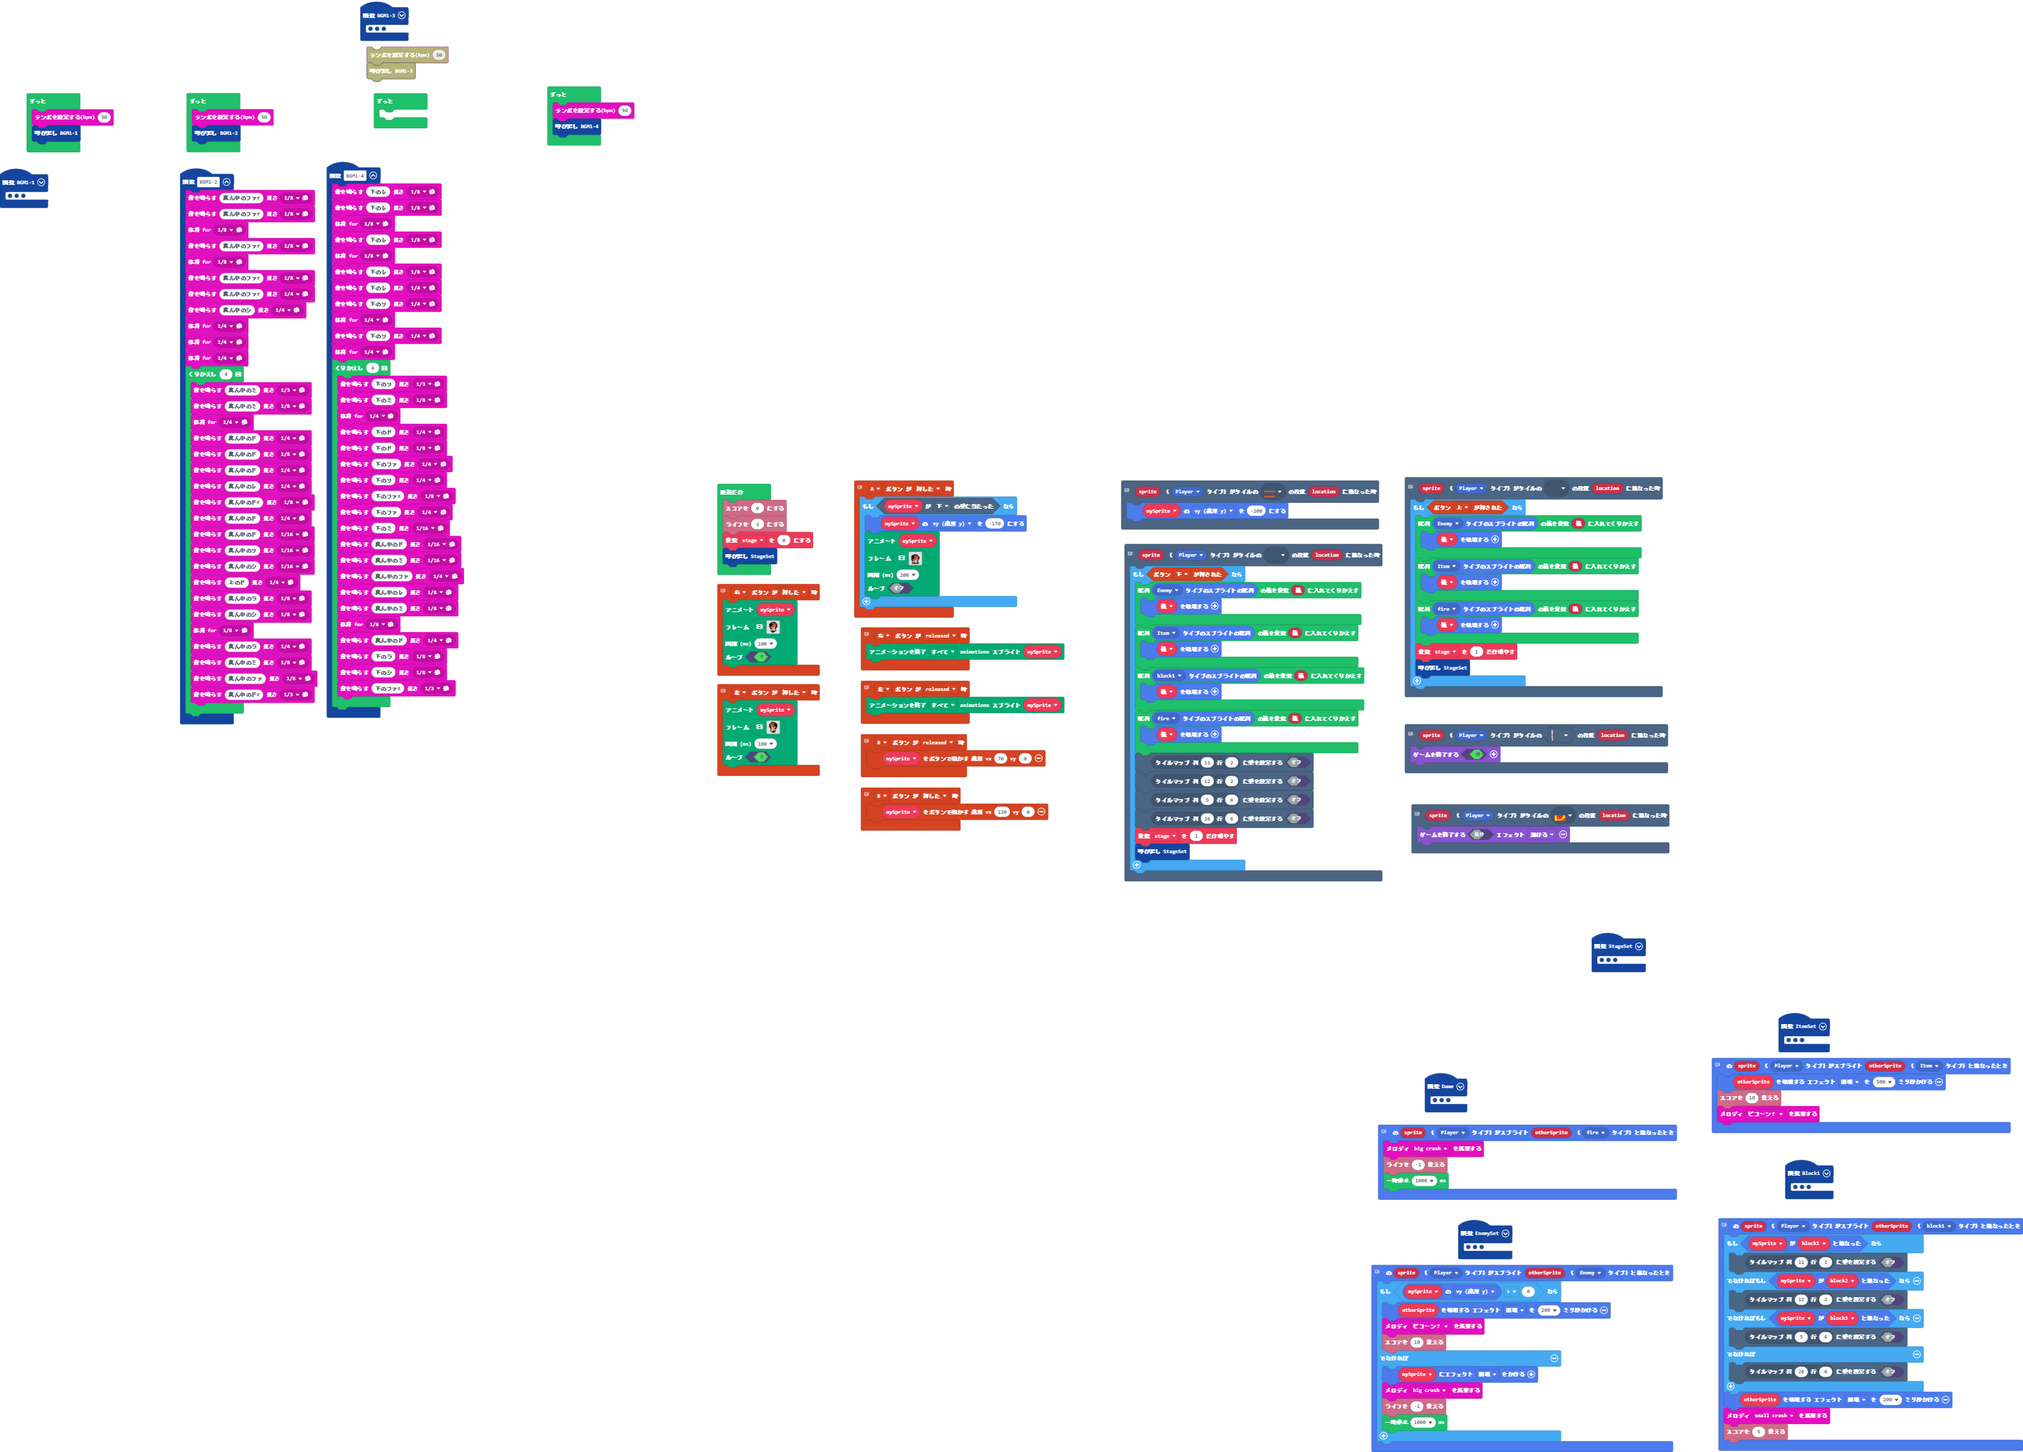
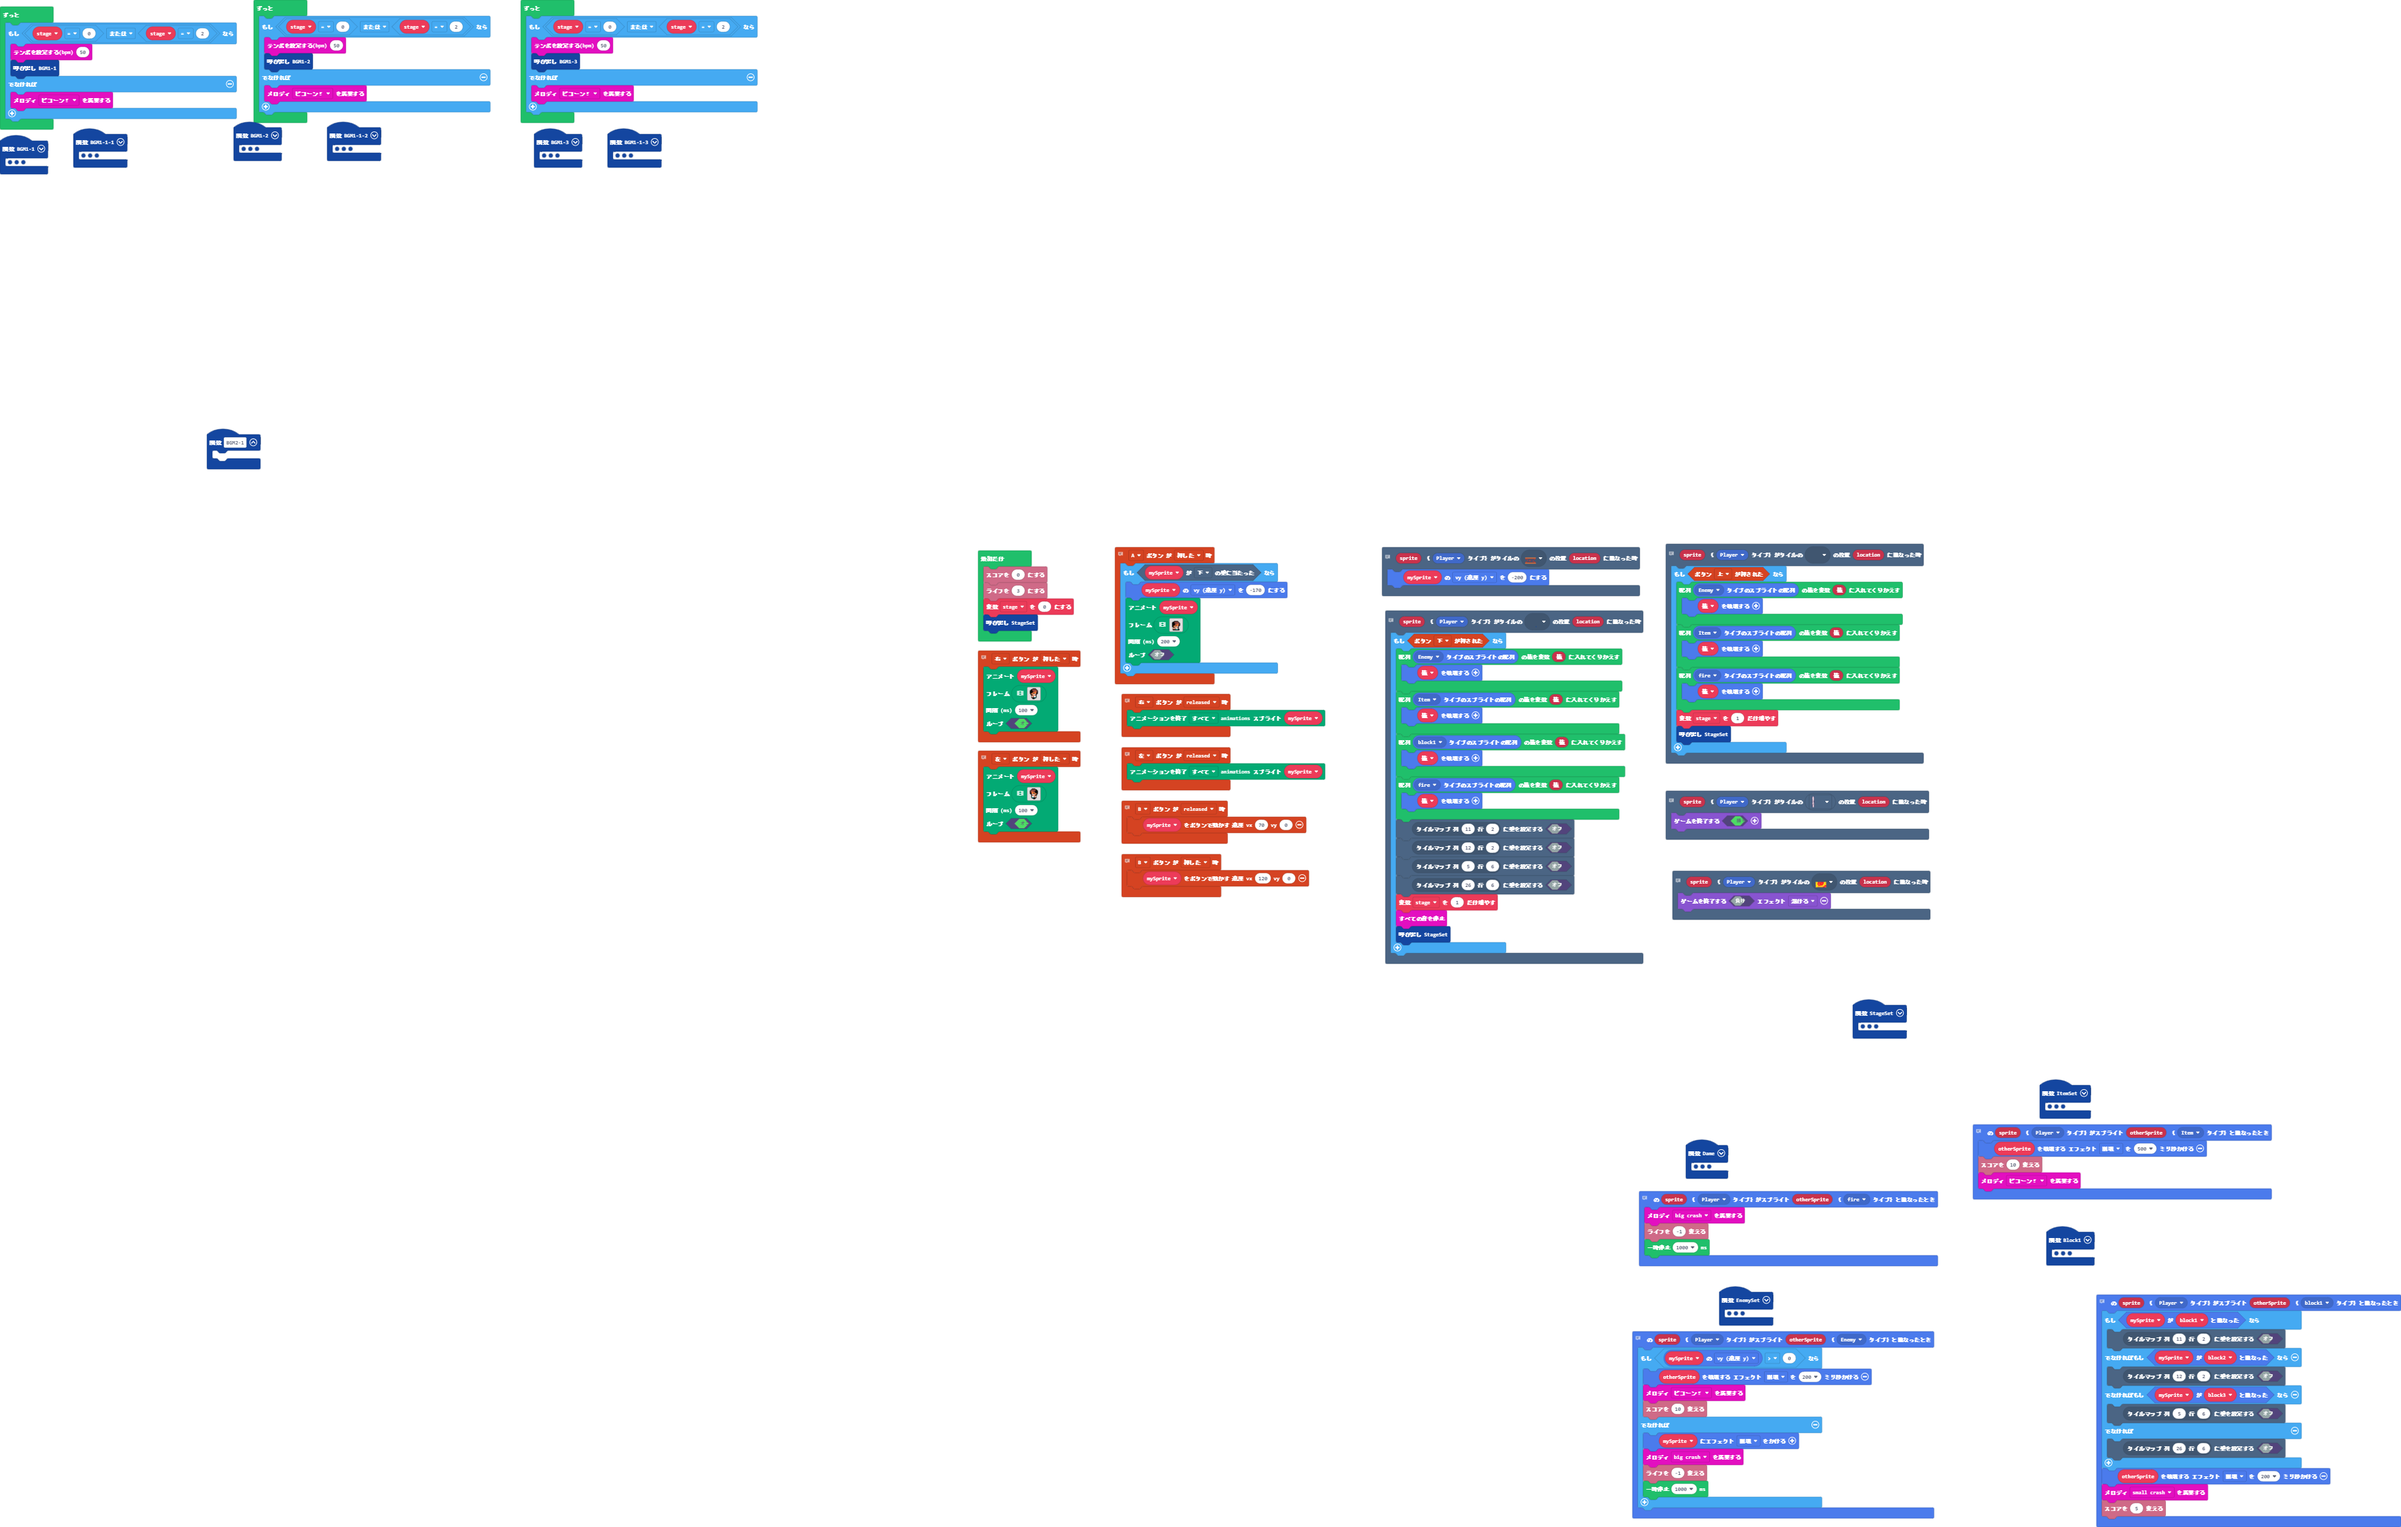
更新 main.blocks, main.ts

diff --git a/main.ts b/main.ts
@@ -69,41 +69,6 @@ controller.right.onEvent(ControllerButtonEvent.Pressed, function () {
     true
     )
 })
-function BGM14 () {
-    music.playTone(147, music.beat(BeatFraction.Eighth))
-    music.playTone(147, music.beat(BeatFraction.Eighth))
-    music.rest(music.beat(BeatFraction.Eighth))
-    music.playTone(147, music.beat(BeatFraction.Eighth))
-    music.rest(music.beat(BeatFraction.Eighth))
-    music.playTone(147, music.beat(BeatFraction.Eighth))
-    music.playTone(147, music.beat(BeatFraction.Quarter))
-    music.playTone(196, music.beat(BeatFraction.Quarter))
-    music.rest(music.beat(BeatFraction.Quarter))
-    music.playTone(196, music.beat(BeatFraction.Quarter))
-    music.rest(music.beat(BeatFraction.Quarter))
-    for (let index = 0; index < 4; index++) {
-        music.playTone(196, music.beat(BeatFraction.Triplet))
-        music.playTone(165, music.beat(BeatFraction.Eighth))
-        music.rest(music.beat(BeatFraction.Quarter))
-        music.playTone(131, music.beat(BeatFraction.Quarter))
-        music.playTone(131, music.beat(BeatFraction.Eighth))
-        music.playTone(175, music.beat(BeatFraction.Quarter))
-        music.playTone(196, music.beat(BeatFraction.Quarter))
-        music.playTone(185, music.beat(BeatFraction.Eighth))
-        music.playTone(175, music.beat(BeatFraction.Quarter))
-        music.playTone(165, music.beat(BeatFraction.Sixteenth))
-        music.playTone(262, music.beat(BeatFraction.Sixteenth))
-        music.playTone(330, music.beat(BeatFraction.Sixteenth))
-        music.playTone(349, music.beat(BeatFraction.Quarter))
-        music.playTone(294, music.beat(BeatFraction.Eighth))
-        music.playTone(330, music.beat(BeatFraction.Eighth))
-        music.rest(music.beat(BeatFraction.Eighth))
-        music.playTone(262, music.beat(BeatFraction.Quarter))
-        music.playTone(220, music.beat(BeatFraction.Eighth))
-        music.playTone(247, music.beat(BeatFraction.Eighth))
-        music.playTone(185, music.beat(BeatFraction.Triplet))
-    }
-}
 function BGM12 () {
     music.playTone(370, music.beat(BeatFraction.Eighth))
     music.playTone(370, music.beat(BeatFraction.Eighth))
@@ -116,27 +81,17 @@ function BGM12 () {
     music.rest(music.beat(BeatFraction.Quarter))
     music.rest(music.beat(BeatFraction.Quarter))
     music.rest(music.beat(BeatFraction.Quarter))
-    for (let index = 0; index < 4; index++) {
-        music.playTone(330, music.beat(BeatFraction.Triplet))
-        music.playTone(330, music.beat(BeatFraction.Eighth))
-        music.rest(music.beat(BeatFraction.Quarter))
-        music.playTone(262, music.beat(BeatFraction.Quarter))
-        music.playTone(262, music.beat(BeatFraction.Eighth))
-        music.playTone(262, music.beat(BeatFraction.Quarter))
-        music.playTone(294, music.beat(BeatFraction.Quarter))
-        music.playTone(277, music.beat(BeatFraction.Eighth))
-        music.playTone(262, music.beat(BeatFraction.Quarter))
-        music.playTone(262, music.beat(BeatFraction.Sixteenth))
-        music.playTone(392, music.beat(BeatFraction.Sixteenth))
-        music.playTone(494, music.beat(BeatFraction.Sixteenth))
-        music.playTone(523, music.beat(BeatFraction.Quarter))
-        music.playTone(440, music.beat(BeatFraction.Eighth))
-        music.playTone(494, music.beat(BeatFraction.Eighth))
-        music.rest(music.beat(BeatFraction.Eighth))
-        music.playTone(440, music.beat(BeatFraction.Quarter))
-        music.playTone(330, music.beat(BeatFraction.Eighth))
-        music.playTone(349, music.beat(BeatFraction.Eighth))
-        music.playTone(277, music.beat(BeatFraction.Triplet))
+    if (stage == 0 || stage == 2) {
+        BGM112()
+    }
+    if (stage == 0 || stage == 2) {
+        BGM112()
+    }
+    if (stage == 0 || stage == 2) {
+        BGM112()
+    }
+    if (stage == 0 || stage == 2) {
+        BGM112()
     }
 }
 // ゴール！
@@ -159,29 +114,17 @@ function BGM11 () {
     music.rest(music.beat(BeatFraction.Quarter))
     music.playTone(392, music.beat(BeatFraction.Quarter))
     music.rest(music.beat(BeatFraction.Quarter))
-    for (let index = 0; index < 4; index++) {
-        music.playTone(523, music.beat(BeatFraction.Triplet))
-        music.playTone(392, music.beat(BeatFraction.Eighth))
-        music.rest(music.beat(BeatFraction.Quarter))
-        music.playTone(330, music.beat(BeatFraction.Quarter))
-        music.playTone(330, music.beat(BeatFraction.Eighth))
-        music.playTone(440, music.beat(BeatFraction.Quarter))
-        music.playTone(494, music.beat(BeatFraction.Quarter))
-        music.playTone(466, music.beat(BeatFraction.Eighth))
-        music.playTone(440, music.beat(BeatFraction.Quarter))
-        music.setTempo(25)
-        music.playTone(392, music.beat(BeatFraction.Sixteenth))
-        music.playTone(659, music.beat(BeatFraction.Sixteenth))
-        music.playTone(784, music.beat(BeatFraction.Sixteenth))
-        music.setTempo(50)
-        music.playTone(880, music.beat(BeatFraction.Quarter))
-        music.playTone(698, music.beat(BeatFraction.Eighth))
-        music.playTone(784, music.beat(BeatFraction.Eighth))
-        music.rest(music.beat(BeatFraction.Eighth))
-        music.playTone(659, music.beat(BeatFraction.Quarter))
-        music.playTone(523, music.beat(BeatFraction.Eighth))
-        music.playTone(587, music.beat(BeatFraction.Eighth))
-        music.playTone(494, music.beat(BeatFraction.Triplet))
+    if (stage == 0 || stage == 2) {
+        BGM111()
+    }
+    if (stage == 0 || stage == 2) {
+        BGM111()
+    }
+    if (stage == 0 || stage == 2) {
+        BGM111()
+    }
+    if (stage == 0 || stage == 2) {
+        BGM111()
     }
 }
 // 土管2に入るときの処理
@@ -225,6 +168,28 @@ sprites.onOverlap(SpriteKind.Player, SpriteKind.block1, function (sprite, otherS
     music.smallCrash.play()
     info.changeScoreBy(5)
 })
+function BGM112 () {
+    music.playTone(330, music.beat(BeatFraction.Triplet))
+    music.playTone(330, music.beat(BeatFraction.Eighth))
+    music.rest(music.beat(BeatFraction.Quarter))
+    music.playTone(262, music.beat(BeatFraction.Quarter))
+    music.playTone(262, music.beat(BeatFraction.Eighth))
+    music.playTone(262, music.beat(BeatFraction.Quarter))
+    music.playTone(294, music.beat(BeatFraction.Quarter))
+    music.playTone(277, music.beat(BeatFraction.Eighth))
+    music.playTone(262, music.beat(BeatFraction.Quarter))
+    music.playTone(262, music.beat(BeatFraction.Sixteenth))
+    music.playTone(392, music.beat(BeatFraction.Sixteenth))
+    music.playTone(494, music.beat(BeatFraction.Sixteenth))
+    music.playTone(523, music.beat(BeatFraction.Quarter))
+    music.playTone(440, music.beat(BeatFraction.Eighth))
+    music.playTone(494, music.beat(BeatFraction.Eighth))
+    music.rest(music.beat(BeatFraction.Eighth))
+    music.playTone(440, music.beat(BeatFraction.Quarter))
+    music.playTone(330, music.beat(BeatFraction.Eighth))
+    music.playTone(349, music.beat(BeatFraction.Eighth))
+    music.playTone(277, music.beat(BeatFraction.Triplet))
+}
 // 壊せるブロック
 function Block1 () {
     block1 = sprites.create(img`
@@ -368,6 +333,30 @@ controller.left.onEvent(ControllerButtonEvent.Pressed, function () {
     true
     )
 })
+function BGM111 () {
+    music.playTone(523, music.beat(BeatFraction.Triplet))
+    music.playTone(392, music.beat(BeatFraction.Eighth))
+    music.rest(music.beat(BeatFraction.Quarter))
+    music.playTone(330, music.beat(BeatFraction.Quarter))
+    music.playTone(330, music.beat(BeatFraction.Eighth))
+    music.playTone(440, music.beat(BeatFraction.Quarter))
+    music.playTone(494, music.beat(BeatFraction.Quarter))
+    music.playTone(466, music.beat(BeatFraction.Eighth))
+    music.playTone(440, music.beat(BeatFraction.Quarter))
+    music.setTempo(25)
+    music.playTone(392, music.beat(BeatFraction.Sixteenth))
+    music.playTone(659, music.beat(BeatFraction.Sixteenth))
+    music.playTone(784, music.beat(BeatFraction.Sixteenth))
+    music.setTempo(50)
+    music.playTone(880, music.beat(BeatFraction.Quarter))
+    music.playTone(698, music.beat(BeatFraction.Eighth))
+    music.playTone(784, music.beat(BeatFraction.Eighth))
+    music.rest(music.beat(BeatFraction.Eighth))
+    music.playTone(659, music.beat(BeatFraction.Quarter))
+    music.playTone(523, music.beat(BeatFraction.Eighth))
+    music.playTone(587, music.beat(BeatFraction.Eighth))
+    music.playTone(494, music.beat(BeatFraction.Triplet))
+}
 // コイン
 function ItemSet () {
     for (let 値 of tiles.getTilesByType(sprites.dungeon.collectibleRedCrystal)) {
@@ -450,14 +439,29 @@ controller.left.onEvent(ControllerButtonEvent.Released, function () {
     animation.stopAnimation(animation.AnimationTypes.All, mySprite)
 })
 function BGM13 () {
+    music.playTone(147, music.beat(BeatFraction.Eighth))
+    music.playTone(147, music.beat(BeatFraction.Eighth))
+    music.rest(music.beat(BeatFraction.Eighth))
+    music.playTone(147, music.beat(BeatFraction.Eighth))
+    music.rest(music.beat(BeatFraction.Eighth))
+    music.playTone(147, music.beat(BeatFraction.Eighth))
+    music.playTone(147, music.beat(BeatFraction.Quarter))
+    music.playTone(196, music.beat(BeatFraction.Quarter))
     music.rest(music.beat(BeatFraction.Quarter))
+    music.playTone(196, music.beat(BeatFraction.Quarter))
     music.rest(music.beat(BeatFraction.Quarter))
-    music.rest(music.beat(BeatFraction.Quarter))
-    music.rest(music.beat(BeatFraction.Quarter))
-    music.playTone(392, music.beat(BeatFraction.Quarter))
-    music.rest(music.beat(BeatFraction.Quarter))
-    music.rest(music.beat(BeatFraction.Quarter))
-    music.rest(music.beat(BeatFraction.Quarter))
+    if (stage == 0 || stage == 2) {
+        BGM113()
+    }
+    if (stage == 0 || stage == 2) {
+        BGM113()
+    }
+    if (stage == 0 || stage == 2) {
+        BGM113()
+    }
+    if (stage == 0 || stage == 2) {
+        BGM113()
+    }
 }
 // 敵！
 function EnemySet () {
@@ -737,6 +741,9 @@ function Dame () {
         true
         )
     }
+}
+function BGM21 () {
+	
 }
 // マグマに落ちた時の処理
 scene.onOverlapTile(SpriteKind.Player, assets.tile`myTile10`, function (sprite, location) {
@@ -1171,6 +1178,7 @@ scene.onOverlapTile(SpriteKind.Player, assets.tile`myTile11`, function (sprite, 
         tiles.setWallAt(tiles.getTileLocation(5, 6), false)
         tiles.setWallAt(tiles.getTileLocation(26, 6), false)
         stage += 1
+        music.stopAllSounds()
         StageSet()
     }
 })
@@ -1301,6 +1309,28 @@ controller.A.onEvent(ControllerButtonEvent.Pressed, function () {
         )
     }
 })
+function BGM113 () {
+    music.playTone(196, music.beat(BeatFraction.Triplet))
+    music.playTone(165, music.beat(BeatFraction.Eighth))
+    music.rest(music.beat(BeatFraction.Quarter))
+    music.playTone(131, music.beat(BeatFraction.Quarter))
+    music.playTone(131, music.beat(BeatFraction.Eighth))
+    music.playTone(175, music.beat(BeatFraction.Quarter))
+    music.playTone(196, music.beat(BeatFraction.Quarter))
+    music.playTone(185, music.beat(BeatFraction.Eighth))
+    music.playTone(175, music.beat(BeatFraction.Quarter))
+    music.playTone(165, music.beat(BeatFraction.Sixteenth))
+    music.playTone(262, music.beat(BeatFraction.Sixteenth))
+    music.playTone(330, music.beat(BeatFraction.Sixteenth))
+    music.playTone(349, music.beat(BeatFraction.Quarter))
+    music.playTone(294, music.beat(BeatFraction.Eighth))
+    music.playTone(330, music.beat(BeatFraction.Eighth))
+    music.rest(music.beat(BeatFraction.Eighth))
+    music.playTone(262, music.beat(BeatFraction.Quarter))
+    music.playTone(220, music.beat(BeatFraction.Eighth))
+    music.playTone(247, music.beat(BeatFraction.Eighth))
+    music.playTone(185, music.beat(BeatFraction.Triplet))
+}
 let fire1: Sprite = null
 let Enemy2: Sprite = null
 let Enemy1: Sprite = null
@@ -1316,17 +1346,26 @@ info.setLife(3)
 stage = 0
 StageSet()
 forever(function () {
-    music.setTempo(50)
-    BGM11()
+    if (stage == 0 || stage == 2) {
+        music.setTempo(50)
+        BGM11()
+    } else {
+        music.baDing.play()
+    }
 })
 forever(function () {
-    music.setTempo(50)
-    BGM12()
+    if (stage == 0 || stage == 2) {
+        music.setTempo(50)
+        BGM12()
+    } else {
+        music.baDing.play()
+    }
 })
 forever(function () {
-	
-})
-forever(function () {
-    music.setTempo(50)
-    BGM14()
+    if (stage == 0 || stage == 2) {
+        music.setTempo(50)
+        BGM13()
+    } else {
+        music.baDing.play()
+    }
 })
